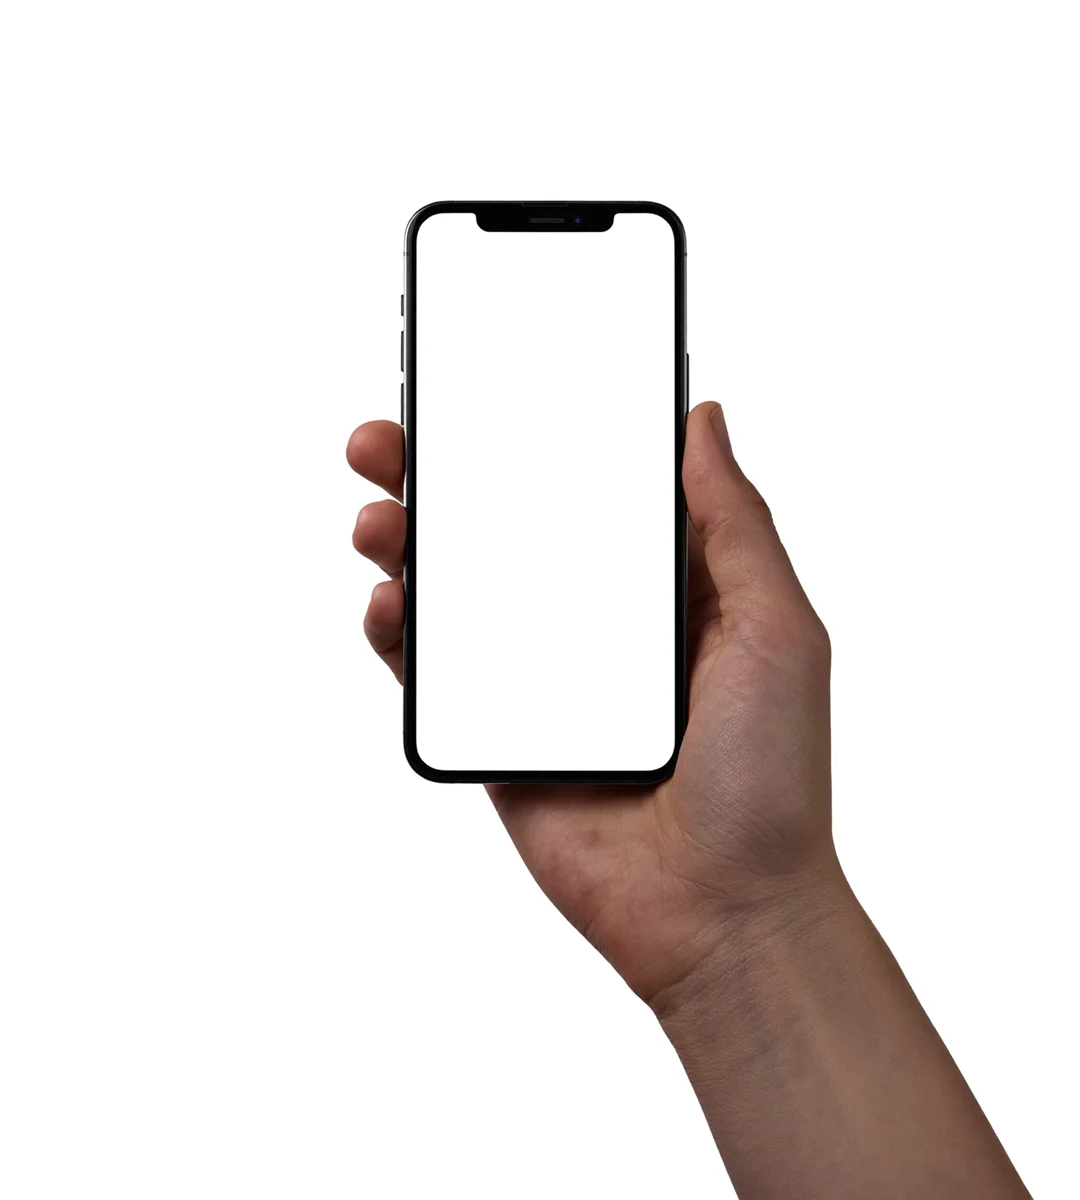
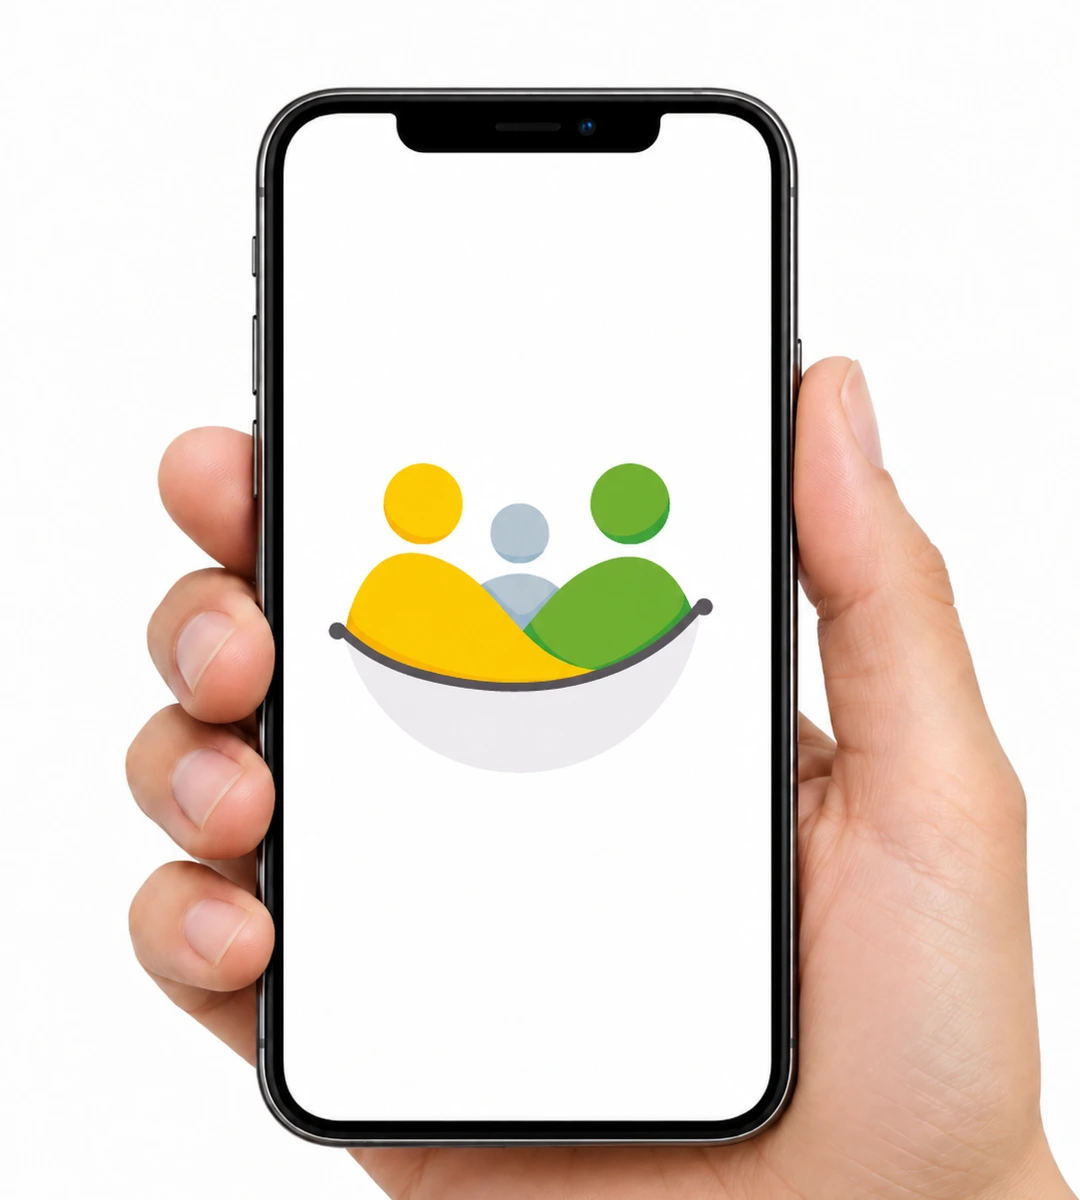
Corrige carga de video/foto en el recorrido móvil y mejora foto del bloque 02
En celular, el video de escritorio del hero (4K) seguía intentando cargar
aunque estuviera oculto, compitiendo por ancho de banda y dejando el video
del bloque 01 y la foto del bloque 04 en blanco mientras el usuario
scrolleaba. Ahora el celular solo carga el video de hero que le corresponde
(preload="none" en el otro) y las fotos/videos del recorrido cargan con
prioridad (eager / preload="auto" / autoplay) en vez de esperar.

Se reemplaza la foto del bloque 02 (mano + celular) por una nueva con el
logo ya integrado en la pantalla y el teléfono ocupando el encuadre, y se
quita la capa de ícono superpuesta que quedaba duplicada.

diff --git a/index.html b/index.html
@@ -446,11 +446,11 @@
   <section class="hero hero--cine">
     <div class="hero__marco">
       <div class="hero__bg" aria-hidden="true">
-        <video class="hero__v-d" autoplay muted playsinline preload="metadata" poster="assets/generative/hero-home.webp" width="3840" height="2160">
+        <video class="hero__v-d" muted playsinline preload="none" poster="assets/generative/hero-home.webp" width="3840" height="2160">
           <source src="assets/generative/hero-home.webm" type="video/webm" />
           <source src="assets/generative/hero-home.mp4" type="video/mp4" />
         </video>
-        <video class="hero__v-m" autoplay muted playsinline preload="metadata" poster="assets/generative/hero-home-sm.webp" width="1920" height="1440">
+        <video class="hero__v-m" muted playsinline preload="none" poster="assets/generative/hero-home-sm.webp" width="1920" height="1440">
           <source src="assets/generative/hero-home-m.webm" type="video/webm" />
           <source src="assets/generative/hero-home-m.mp4" type="video/mp4" />
         </video>
@@ -499,7 +499,7 @@
 
     <article class="stack__panel" data-n="01">
       <div class="stack__media" aria-hidden="true">
-        <video autoplay muted loop playsinline preload="metadata" poster="assets/generative/p01-poster.webp" width="1920" height="1080">
+        <video autoplay muted loop playsinline preload="auto" poster="assets/generative/p01-poster.webp" width="1920" height="1080">
           <source src="assets/generative/p01.webm" type="video/webm" />
           <source src="assets/generative/p01.mp4" type="video/mp4" />
         </video>
@@ -535,8 +535,7 @@
     <article class="stack__panel stack__panel--marco" data-n="02" style="--foco:50% 50%">
       <div class="stack__media" aria-hidden="true">
         <div class="marco-foto">
-          <img src="assets/generative/p02.webp" alt="" width="1080" height="1200" loading="lazy" decoding="async" />
-          <img class="ui-icono" src="assets/icono.png" alt="" width="240" height="240" loading="lazy" decoding="async" style="--ix:50%;--iy:40%;--iw:14%" />
+          <img src="assets/generative/p02.webp" alt="" width="1080" height="1200" loading="eager" decoding="async" />
           <ul class="manuscrito" aria-hidden="true">
             <li style="--mx:8%;--my:14%;--mr:-7deg">Te decimos la verdad</li>
             <li style="--mx:54%;--my:16%;--mr:5deg">No prometemos milagros</li>
@@ -563,7 +562,7 @@
 
     <article class="stack__panel stack__panel--der" data-n="03" style="--foco:100% center">
       <div class="stack__media" aria-hidden="true">
-        <video muted loop playsinline preload="metadata" poster="assets/generative/p03-poster.webp" width="1920" height="1080">
+        <video autoplay muted loop playsinline preload="auto" poster="assets/generative/p03-poster.webp" width="1920" height="1080">
           <source src="assets/generative/p03.webm" type="video/webm" />
           <source src="assets/generative/p03.mp4" type="video/mp4" />
         </video>
@@ -584,7 +583,7 @@
 
     <article class="stack__panel stack__panel--verde" data-n="04" style="--foco:center 40%">
       <div class="stack__media" aria-hidden="true">
-        <img src="assets/generative/p04.webp" alt="" width="1600" height="900" loading="lazy" decoding="async" />
+        <img src="assets/generative/p04.webp" alt="" width="1600" height="900" loading="eager" decoding="async" />
       </div>
       <span class="stack__veil" aria-hidden="true"></span>
       <div class="ui" style="--ux:auto;--uy:auto;right:clamp(1rem,4vw,4rem);bottom:clamp(5.4rem,10vh,7rem);width:auto" aria-hidden="true">

diff --git a/css/styles.css b/css/styles.css
@@ -1016,9 +1016,9 @@ html.con-intro .intro__barra i{animation:introCarga .95s var(--ease) .1s forward
 .ui-chip .ico{width:.9rem;height:.9rem;color:var(--verde-marca);stroke:var(--verde-marca)}
 
 @media (max-width:860px){
-  .stack__panel{flex-direction:column;align-items:stretch;justify-content:flex-end;padding-bottom:4.5rem}
+  .stack__panel{flex-direction:column;align-items:stretch;justify-content:flex-start;padding-bottom:4.5rem}
   .stack__panel .container{width:min(100% - 2.4rem,var(--container))}
-  .stack__veil{background:linear-gradient(180deg, rgba(255,255,255,.12) 0%, rgba(255,255,255,.3) 30%, rgba(255,255,255,.96) 58%, #fff 100%)}
+  .stack__veil{display:none}
   .stack__copy{max-width:none}
   .stack__copy p{margin-bottom:1.3rem}
   .ui{display:none}
@@ -1029,6 +1029,17 @@ html.con-intro .intro__barra i{animation:introCarga .95s var(--ease) .1s forward
   .stack__index li{font-size:0;width:8px;height:8px;border-radius:50%;background:rgba(43,51,39,.25)}
   .stack__index li::before,.stack__index li b{display:none}
   .stack__index li.is-active{background:var(--verde-marca)}
+  /* Paneles sin marco (01/03/04): la foto/video vive en una caja arriba
+     (como el hero y el camino en móvil) en vez de fondo a pantalla completa,
+     porque el material es horizontal y "cover" a pantalla completa lo recorta
+     casi todo. */
+  .stack__panel:not(.stack__panel--marco) .stack__media{
+    position:relative;inset:auto;width:calc(100% - 2.4rem);margin:5.4rem auto 1rem;
+    aspect-ratio:4/3;max-height:48svh;border-radius:var(--radius-lg);overflow:hidden;
+    box-shadow:0 40px 80px -40px rgba(43,51,39,.35);flex:none;
+  }
+  .stack__panel:not(.stack__panel--marco) .stack__media video,
+  .stack__panel:not(.stack__panel--marco) .stack__media img{object-position:center}
   /* Panel con marco en móvil: el marco arriba a ancho completo, texto abajo */
   .stack__panel--marco::before{display:none}
   .stack__panel--marco .stack__media{inset:auto;position:relative;width:calc(100% - 2.4rem);margin:5.4rem auto 1rem;aspect-ratio:9/10;max-height:52svh;flex:none}

diff --git a/js/recorrido.js b/js/recorrido.js
@@ -64,15 +64,42 @@
     });
   });
 
+  /* El hero tiene dos videos (uno de escritorio, uno de celular) pero un
+     celular solo debe cargar el suyo: si al de escritorio (4K, pesado) le
+     queda "autoplay" aunque esté oculto, compite por el ancho de banda con
+     todo lo demás y hace que el resto de la página cargue a medias.
+     Aquí se elige por ancho de pantalla, se reproduce solo ese y al otro
+     se le quita cualquier intento de carga (preload="none"). */
+  var heroD = document.querySelector('.hero__v-d');
+  var heroM = document.querySelector('.hero__v-m');
+  var heroVideos = Array.prototype.slice.call(document.querySelectorAll('.hero video'));
+  if (heroD && heroM) {
+    var mqMovil = window.matchMedia('(max-width:860px)');
+    var ajustando = false;
+    function elegirVideoHero() {
+      if (ajustando) return; ajustando = true;
+      var activo = mqMovil.matches ? heroM : heroD;
+      var inactivo = mqMovil.matches ? heroD : heroM;
+      if (!inactivo.paused) inactivo.pause();
+      inactivo.preload = 'none';
+      activo.preload = 'auto';
+      reproducir(activo);
+      ajustando = false;
+    }
+    elegirVideoHero();
+    if (mqMovil.addEventListener) mqMovil.addEventListener('change', elegirVideoHero);
+    else if (mqMovil.addListener) mqMovil.addListener(elegirVideoHero);
+  }
+
   /* El video del hero se reproduce una vez; si el usuario vuelve arriba,
      se reinicia para que la escena se vea de nuevo. */
-  var heroVideos = Array.prototype.slice.call(document.querySelectorAll('.hero video'));
   if (heroVideos.length && hayIO) {
     var fuera = false;
     var ioHero = new IntersectionObserver(function (entradas) {
       var e = entradas[0];
       if (!e.isIntersecting) { fuera = true; heroVideos.forEach(function (v) { if (!v.paused) v.pause(); }); return; }
       heroVideos.forEach(function (v) {
+        if (v.preload === 'none') return; // es el que no corresponde a este ancho de pantalla
         if (fuera) { try { v.currentTime = 0; } catch (err) {} }
         reproducir(v);
       });
